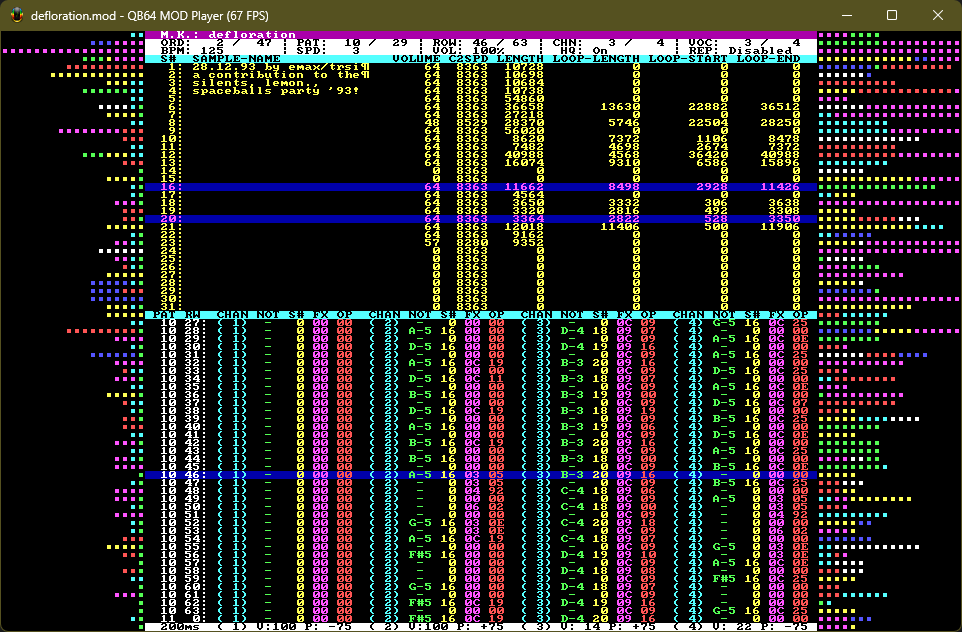
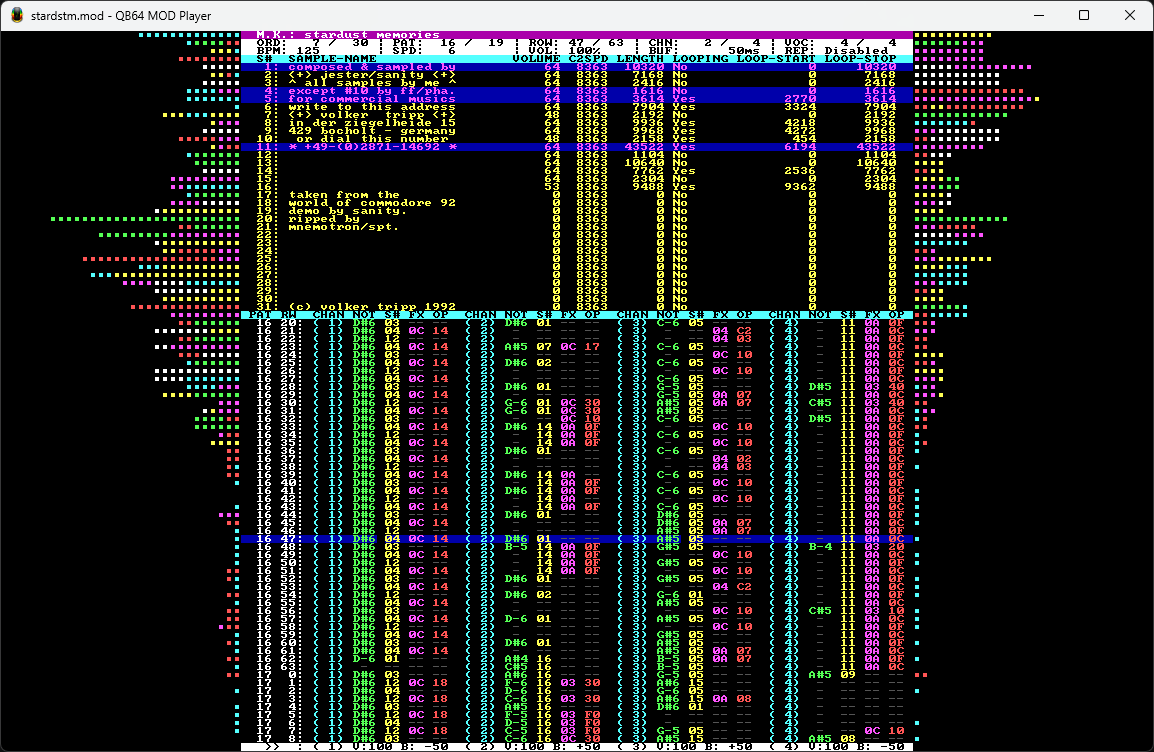
Update README.md: enhance usage instructions and clarify library integration steps

diff --git a/README.md b/README.md
@@ -28,29 +28,34 @@ It currently supports the following formats:
 ### Running the Demo Player
 
 1. Clone the repository:
+
    ```sh
    git clone https://github.com/a740g/QB64-MOD-Player.git
    cd QB64-MOD-Player
    ```
+
 2. Build and run using either method:
    - **QB64-PE IDE:** Open `QB64MODPlayer.bas` in the IDE and press `F5`.
    - **Command Line:** Compile directly with the QB64-PE compiler:
+
      ```sh
      qb64pe -x -w -e QB64MODPlayer.bas
      ```
+
      Then run the generated executable.
 
 ### Using the Library in Your Project
 
 1. Copy the `source` directory into your project.
 2. Include the library in your code:
-   ```basic
+
+   ```vb
    '$INCLUDE:'source/Audio/MODPlayer.bi'
    ```
 
 ## API
 
-```basic
+```vb
 ' Main Player API
 FUNCTION MODPlayer_GetName$
 FUNCTION MODPlayer_GetOrders~%
@@ -106,21 +111,27 @@ SUB SoftSynth_Update (frames AS _UNSIGNED LONG)
 ## FAQ
 
 **Why a MOD player in QB64?**
+
 - Just for learning and fun! Long answer: I have seen plenty of MOD players code and libraries in C & C++ but very little in other languages. I know about some JavaScript, Java and C# ones. But, I am not a fan of those languages. I learnt to code on DOS using QuickBASIC and then graduated to C & C++. So, QuickBASIC always had a special place in my heart. Then, I found QB64 on the internet and the rest is history. As far as I know this is the first of its kind. Let me know if there are any other MOD players written in pure QB64.
 
 **Can you implement feature x / y?**
+
 - With the limited time I have between my day job, home and family, there is only so much I can do. There are no set deadlines. If you need something implemented, submit a GitHub issue about it or do it yourself and submit a PR.
 
 **I found a bug. How can I help?**
+
 - Let me know using GitHub issues or fix it yourself and submit a PR!
 
 **Can this be used in a game / demo?**
+
 - Absolutely. The player UI code included is a great example.
 
 **You keep saying QB64-PE with miniaudio backend. Where is it?**
+
 - Glad you asked! IT, XM, S3M & MOD support is built into [QB64-PE v3.1.0+](https://github.com/QB64-Phoenix-Edition/QB64pe/releases/).
 
 **I see that the miniaudio backend version of QB64-PE already has MOD, S3M, XM, IT, RADv2 & MIDI support. Why should I care about this?**
+
 - Honestly, you should not! The MOD re-player in QB64-PE with miniaudio backend uses [Libxmp-lite](https://github.com/libxmp/libxmp/tree/master/lite) and as such is good enough for most use cases. This is just something that I made just to see what can be done using just QB64-PE. If you want to see what MOD files are made of and what makes them tick, then by all means, have at it. There are some interesting things in the code for people who care about this kind of stuff. Also, my MOD re-player is more accurate than the one in Libxmp-lite... I hope. 😉
 
 ## NOTES
